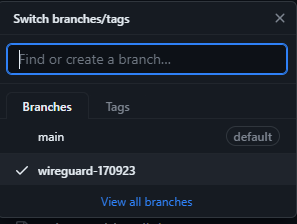
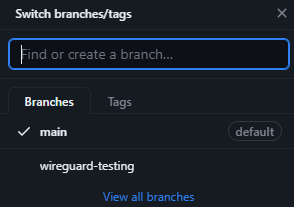
update readme

diff --git a/README.md b/README.md
@@ -38,7 +38,7 @@ Run the script again to add or remove clients!
 ## Contributing
 ![](/img/branch.png)  
 ```
-Fork the repository with a date on it, this is the test branch.  
+Fork the repository with the name wireguard-testing, this is the test branch.  
 Make your changes and add.  
 Add the files ( git add .)  
 Commit your changes (git commit -m 'Add some feature')  
